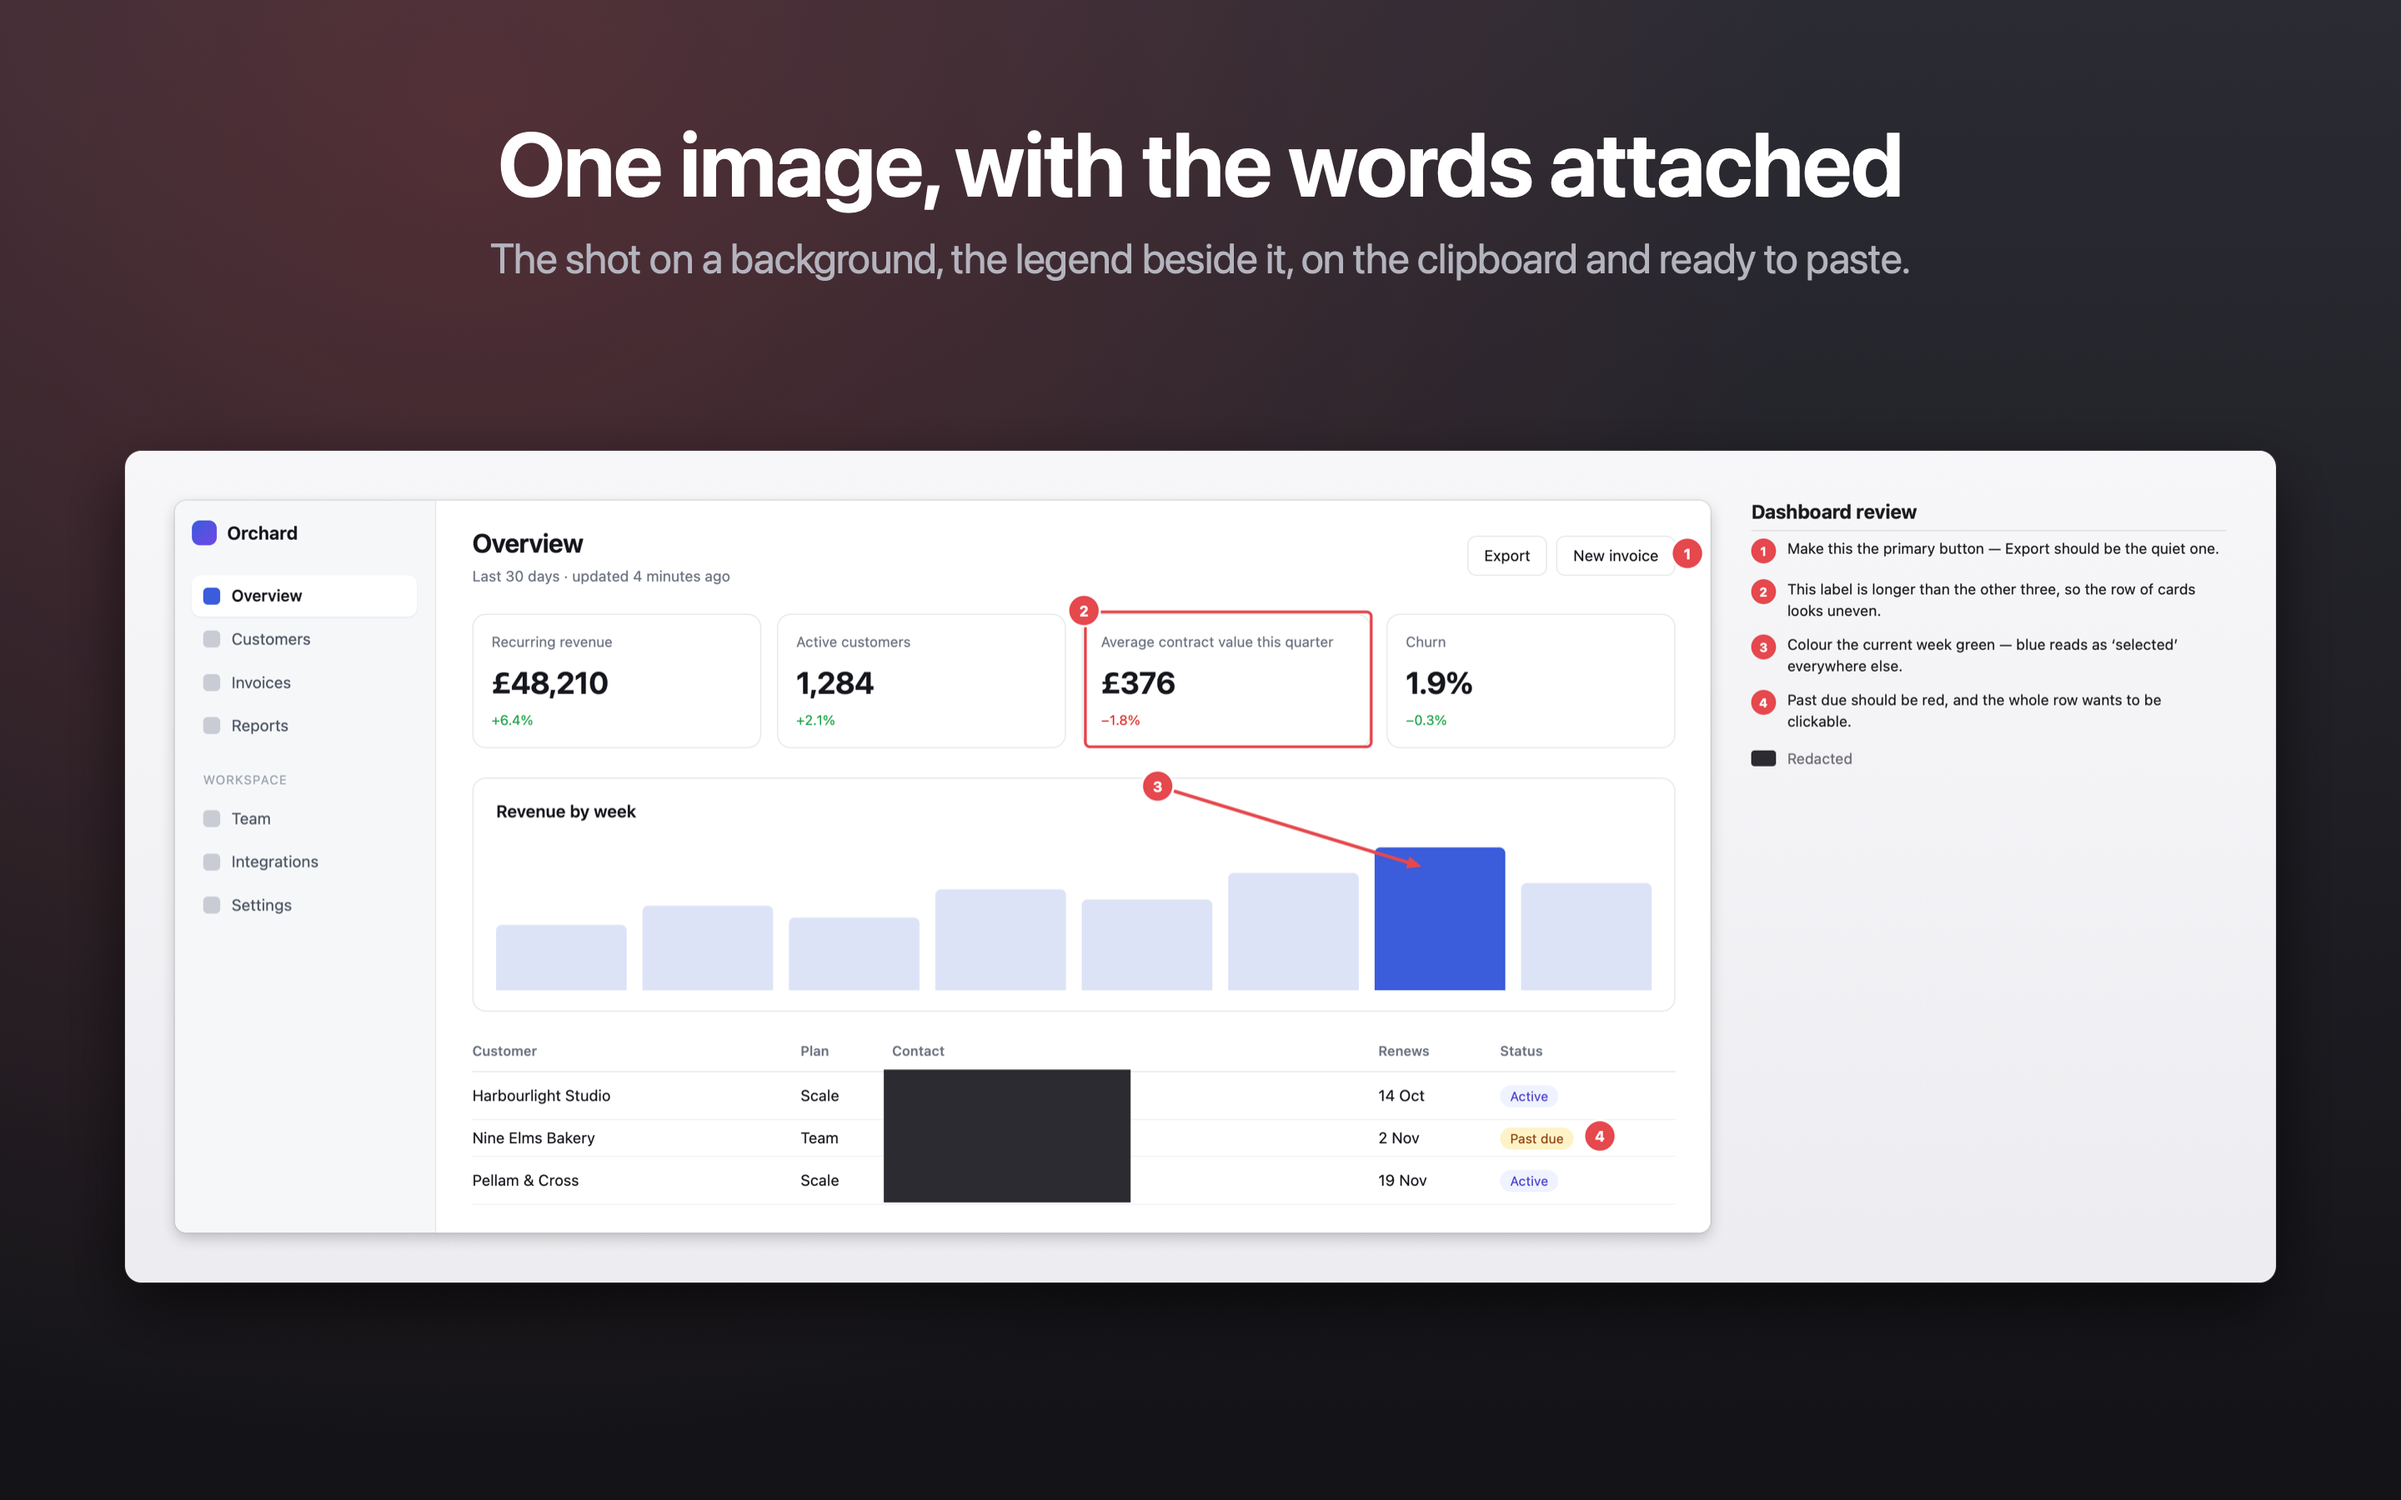
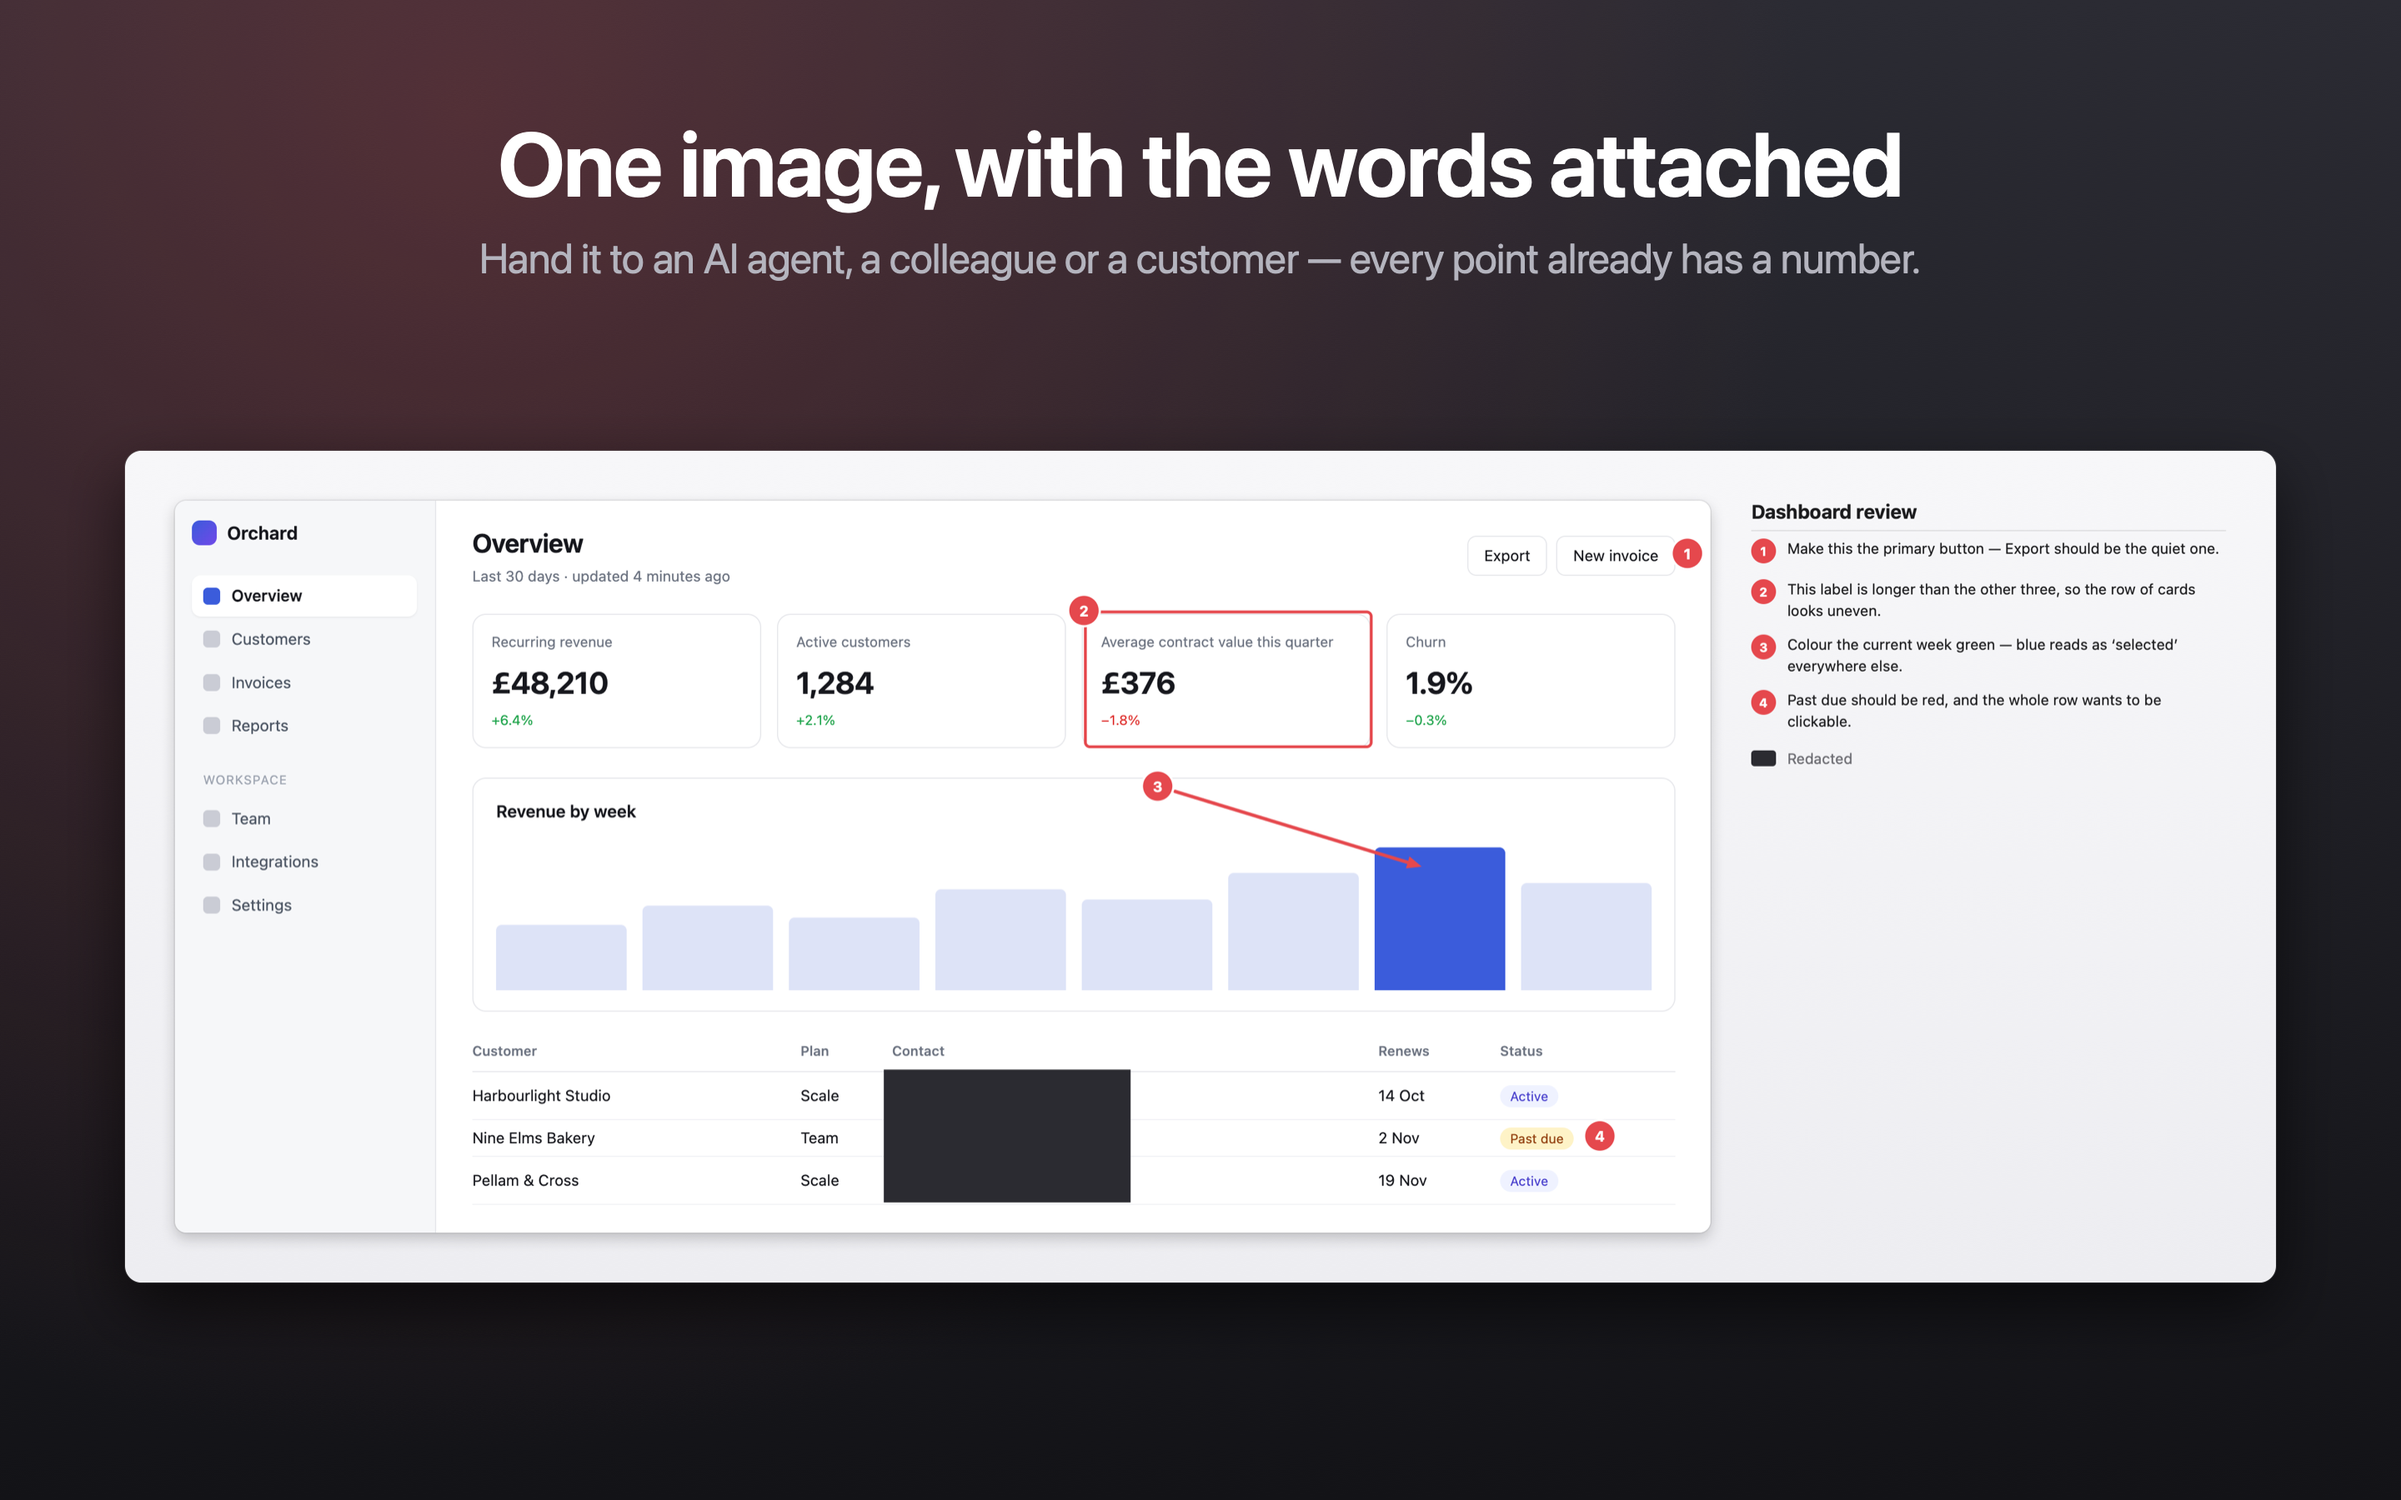
Say why you'd want an annotated screenshot, and who for
The listing described the mechanics and never made the case. It now opens on
the sentence the app exists to replace — "the button on the right, no, the
other one, above the total" — and names the three people on the other end: a
model that can only see pixels, a colleague replying by number, and a customer
who shouldn't see the rest of the screen.

Claude-Session: https://claude.ai/code/session_01FBBCUXyg1t1ZjhwtwTBr8z

Changed region(s): [[0.1875, 0.1556, 0.7812, 0.1867]]

diff --git a/scripts/make-appstore-shots.swift b/scripts/make-appstore-shots.swift
@@ -157,7 +157,7 @@ wide("win.png",
 
 wide("export.png",
      "One image, with the words attached",
-     "The shot on a background, the legend beside it, on the clipboard and ready to paste.",
+     "Hand it to an AI agent, a colleague or a customer — every point already has a number.",
      radius: 20, to: "02-result.png")
 
 wide("export2.png",

diff --git a/appstore/listing.md b/appstore/listing.md
@@ -5,8 +5,8 @@ Connect without the line breaks a Markdown table would put in them:
 
 | Field | File | Length |
 | --- | --- | --- |
-| Promotional Text | [`promotional-text.txt`](promotional-text.txt) | 153 / 170 |
-| Description | [`description.txt`](description.txt) | 2633 / 4000 |
+| Promotional Text | [`promotional-text.txt`](promotional-text.txt) | 155 / 170 |
+| Description | [`description.txt`](description.txt) | 3323 / 4000 |
 | Keywords | [`keywords.txt`](keywords.txt) | 98 / 100 |
 | App Review notes | [`review-notes.txt`](review-notes.txt) | 1549 |
 
